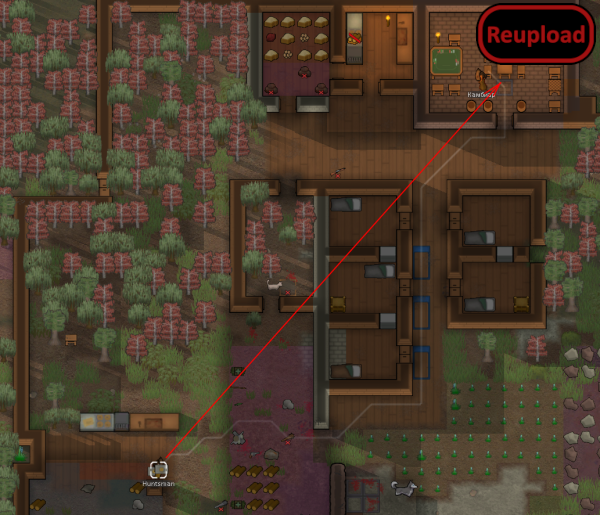
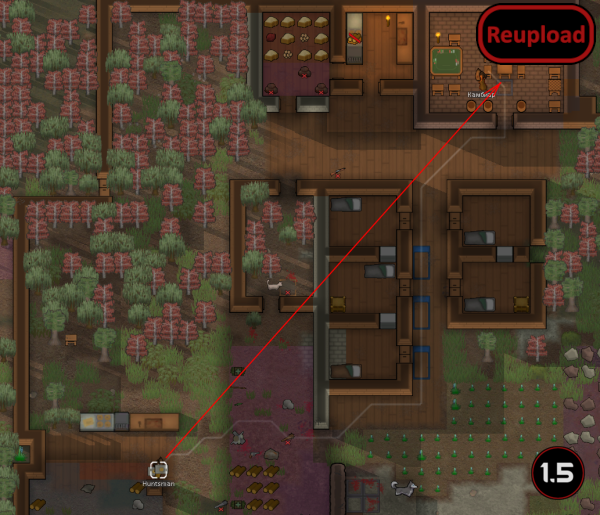
Mod updated for 1.5 and passed autotests Used DeepL to update translations for ChineseSimplified, French, German

Changed region(s): [[0.87, 0.8699, 0.99, 0.9942]]

diff --git a/Source/MealRadius/MealRadiusMod.cs b/Source/MealRadius/MealRadiusMod.cs
@@ -21,7 +21,7 @@ public class MealRadiusMod : Mod
     {
         settings = GetSettings<MealRadiusSettings>();
         currentVersion =
-            VersionFromManifest.GetVersionFromModMetaData(ModLister.GetActiveModWithIdentifier("Mlie.MealRadius"));
+            VersionFromManifest.GetVersionFromModMetaData(content.ModMetaData);
     }
 
     /// <summary>

diff --git a/Source/MealRadius/WorldComp.cs b/Source/MealRadius/WorldComp.cs
@@ -5,12 +5,8 @@ using Verse;
 
 namespace MealRadius;
 
-internal class WorldComp : WorldComponent
+internal class WorldComp(World world) : WorldComponent(world)
 {
-    public WorldComp(World world) : base(world)
-    {
-    }
-
     public override void FinalizeInit()
     {
         base.FinalizeInit();

diff --git a/Source/MealRadius/IsMealBase.cs b/Source/MealRadius/IsMealBase.cs
@@ -2,6 +2,4 @@
 
 namespace MealRadius;
 
-public class IsMealBase : DefModExtension
-{
-}
+public class IsMealBase : DefModExtension;

diff --git a/README.md b/README.md
@@ -7,6 +7,7 @@ https://steamcommunity.com/sharedfiles/filedetails/?id=1544932892
 
 - Added setting for the search-range
 - Now works on all meals based on the abstract [strike]MealBase[/strike]. Changed to MealBaseIngredientless in 1.3
+- The base class does no longer include Pemmican
 - Vanilla search-radius is 32
 
 ![Image](https://i.imgur.com/pufA0kM.png)
@@ -30,11 +31,13 @@ Meal radius B19 https://steamcommunity.com/sharedfiles/filedetails/?id=150471661
 
 -  See if the the error persists if you just have this mod and its requirements active.
 -  If not, try adding your other mods until it happens again.
--  Post your error-log using https://steamcommunity.com/workshop/filedetails/?id=818773962]HugsLib and command Ctrl+F12
+-  Post your error-log using https://steamcommunity.com/workshop/filedetails/?id=818773962]HugsLib or the standalone https://steamcommunity.com/sharedfiles/filedetails/?id=2873415404]Uploader and command Ctrl+F12
 -  For best support, please use the Discord-channel for error-reporting.
 -  Do not report errors by making a discussion-thread, I get no notification of that.
 -  If you have the solution for a problem, please post it to the GitHub repository.
+-  Use https://github.com/RimSort/RimSort/releases/latest]RimSort to sort your mods
 
 
 
+https://steamcommunity.com/sharedfiles/filedetails/changelog/2030305809]![Image](https://img.shields.io/github/v/release/emipa606/MealRadius?label=latest%20version&style=plastic&color=9f1111&labelColor=black)
 
